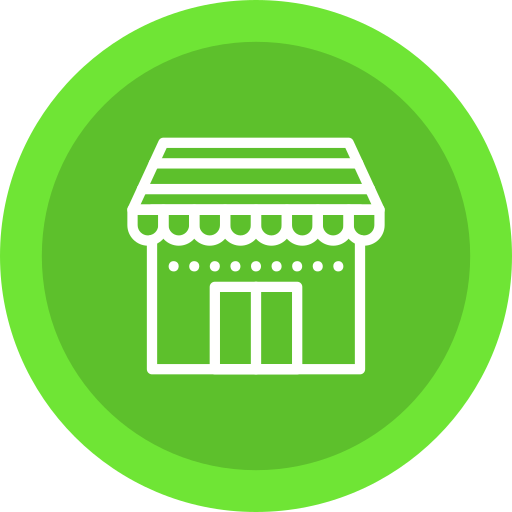
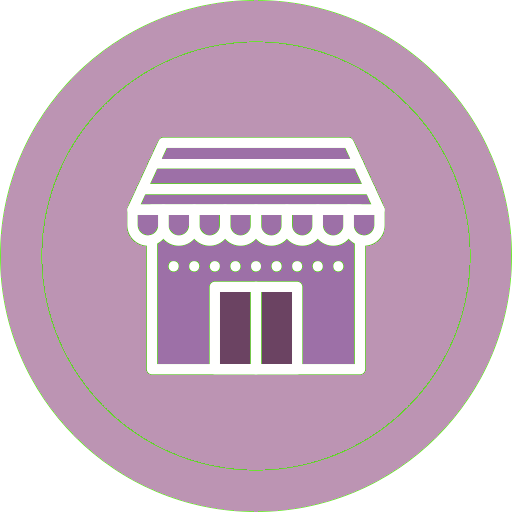
newStyle

diff --git a/app/Screens/TakeImage.js b/app/Screens/TakeImage.js
@@ -91,84 +91,113 @@ function TakeImage({navigation}) {
     );
 }
 const styles = StyleSheet.create({
-    container:{
-        flex: 1,
-        backgroundColor: '#FFFFFF', 
-    },
-    barcodebox:{
-        position:'absolute',
-        top:180,
-        left:45,
-        alignItems: 'center',
-        justifyContent: 'center',
-        height: 300,
-        width:300,
-        overflow: 'hidden',
-        borderRadius:30,
-        backgroundColor:'tomato',
-    },
-    maintext:{
-        position:'absolute',
-        fontSize: 30,
-        margin: 18,
-        top:500,
-        left:66,
-        color:'#4CE47A',
-        fontWeight: 'bold',  
-    },
-    permission:{
-        fontWeight: 'bold',  
-        fontSize:24,
-        marginTop:50,
-        alignSelf: 'flex-start',
-        marginLeft: 40,
-        color:'#4CE47A',
-    },
-    againButton:{
-        position: 'absolute',
-        bottom: 20,
-        left: 122,
-        bottom:160,
-        padding: 10,
-        backgroundColor: '#E91C49',
-        borderRadius: 10,
-    },
-    buttonText: {
-        color: '#FFFFFF',
-        fontSize: 24,
-        fontWeight: 'bold',
-    },
-    productModal: {
-        position: 'absolute',
-        top: 100,
-        left: 20,
-        right: 20,
-        backgroundColor: '#FFFFFF',
-        borderRadius: 10,
-        padding: 20,
-        shadowColor: '#000000',
-        shadowOpacity: 0.25,
-        shadowRadius: 3.84,
-        elevation: 5,
-    },
-    productContainer: {
-        marginBottom: 15,
-    },
-    row: {
-        flexDirection: 'row',
-        alignItems: 'center',
-        marginBottom: 5,
-    },
-    label: {
-        fontSize: 18,
-        fontWeight: 'bold',
-        marginRight: 10,
-        color: '#26B6B5',
-    },
-    value: {
-        fontSize: 16,
-        color: '#666', 
-        width:200,
-    },
-})
+container: {
+    flex: 1,
+    backgroundColor: '#f0f0f0',
+    alignItems: 'center',
+    justifyContent: 'center',
+    padding: 20,
+},
+barcodebox: {
+    alignItems: 'center',
+    justifyContent: 'center',
+    height: 300,
+    width: 300,
+    overflow: 'hidden',
+    borderRadius: 15,
+    backgroundColor: '#ff6347',
+    marginBottom: 20,
+},
+maintext: {
+    fontSize: 20,
+    margin: 20,
+    color: '#9e749a',
+    fontWeight: 'bold',
+    textAlign: 'center',
+},
+permission: {
+    fontWeight: 'bold',
+    fontSize: 24,
+    marginTop: 50,
+    textAlign: 'center',
+    color: '#9e749a',
+},
+againButton: {
+    position: 'absolute',
+    bottom: 40,
+    padding: 15,
+    backgroundColor: '#727272',
+    borderRadius: 10,
+},
+buttonText: {
+    color: '#FFFFFF',
+    fontSize: 20,
+    fontWeight: 'bold',
+},
+productModal: {
+    position: 'absolute',
+    top: 100,
+    left: 20,
+    right: 20,
+    backgroundColor: '#FFFFFF',
+    borderRadius: 15,
+    padding: 20,
+    shadowColor: '#000000',
+    shadowOpacity: 0.25,
+    shadowRadius: 3.84,
+    elevation: 5,
+},
+productContainer: {
+    marginBottom: 15,
+},
+row: {
+    flexDirection: 'row',
+    alignItems: 'center',
+    marginBottom: 10,
+},
+label: {
+    fontSize: 18,
+    fontWeight: 'bold',
+    marginRight: 10,
+    color: '#9e749a',
+},
+value: {
+    fontSize: 16,
+    color: '#666',
+    flexShrink: 1,
+},
+button: {
+    flexDirection: 'row',
+    alignItems: 'center',
+    backgroundColor: '#9e749a',
+    padding: 10,
+    borderRadius: 10,
+    marginTop: 20,
+},
+buttonIcon: {
+    width: 24,
+    height: 24,
+    marginRight: 10,
+},
+productImage: {
+    width: 200,
+    height: 200,
+    marginBottom: 15,
+    borderRadius: 10,
+},
+imageContainer: {
+    alignItems: 'center',
+    position: 'relative',
+},
+favoriteIcon: {
+    position: 'absolute',
+    top: 10,
+    right: 10,
+},
+favoriteIconImage: {
+    width: 30,
+    height: 30,
+},
+});
+
 export default TakeImage;

diff --git a/app/Screens/ProductsPage.js b/app/Screens/ProductsPage.js
@@ -94,17 +94,17 @@ const ProductsPage = ({ navigation }) => {
   }, [db]); // Tableau de dépendances vide pour garantir que useEffect ne s'exécute qu'une fois
 
   const addToCart = async (item) => {
-    const user = getCurrentUser(); // Function getCurrentUser to be implemented
+    const user = getCurrentUser();
     if (user && db) {
       try {
         const userId = user.uid;
         const userCartRef = doc(db, 'Cart', userId);
         const cartSnapshot = await getDoc(userCartRef);
+
         let updatedCartItems = [];
         if (cartSnapshot.exists()) {
           const existingCartItems = cartSnapshot.data().items || [];
-          console.log('Existing cart items:', existingCartItems);
-          const existingItemIndex = existingCartItems.findIndex((cartItem) => cartItem.id === item.id);
+          const existingItemIndex = existingCartItems.findIndex(cartItem => cartItem.id === item.id);
           if (existingItemIndex !== -1) {
             updatedCartItems = existingCartItems.map((cartItem, index) => {
               if (index === existingItemIndex) {
@@ -118,10 +118,10 @@ const ProductsPage = ({ navigation }) => {
         } else {
           updatedCartItems = [{ ...item, quantity: 1 }];
         }
-        console.log('Updated cart items before saving:', updatedCartItems);
+
         await setDoc(userCartRef, { items: updatedCartItems });
-        console.log('Cart saved to Firestore successfully.');
         setCartItems(updatedCartItems);
+        setCartItemCount(updatedCartItems.length);
       } catch (error) {
         console.error('Error adding item to cart:', error);
       }
@@ -136,18 +136,20 @@ const ProductsPage = ({ navigation }) => {
         const userId = user.uid;
         const userFavoriteRef = doc(db, 'Favorites', userId);
         const favoriteSnapshot = await getDoc(userFavoriteRef);
+
         let updatedFavoriteItems = [];
         if (favoriteSnapshot.exists()) {
           const existingFavoriteItems = favoriteSnapshot.data().items || [];
-          const existingItemIndex = existingFavoriteItems.findIndex((favoriteItem) => favoriteItem.id === item.id);
+          const existingItemIndex = existingFavoriteItems.findIndex(favoriteItem => favoriteItem.id === item.id);
           if (existingItemIndex !== -1) {
-            updatedFavoriteItems = existingFavoriteItems.filter((favoriteItem) => favoriteItem.id !== item.id);
+            updatedFavoriteItems = existingFavoriteItems.filter(favoriteItem => favoriteItem.id !== item.id);
           } else {
             updatedFavoriteItems = [...existingFavoriteItems, item];
           }
         } else {
           updatedFavoriteItems = [item];
         }
+
         await setDoc(userFavoriteRef, { items: updatedFavoriteItems });
         setFavoriteItems(updatedFavoriteItems);
       } catch (error) {

diff --git a/app/Screens/login.js b/app/Screens/login.js
@@ -186,7 +186,7 @@ function Login({navigation}) {
                 <Pressable onPress={() => navigation.navigate("Signup")}>
                     <Text style={{
                         fontSize: 16,
-                        color:'#00ff00',
+                        color:'#a279a2',
                         fontWeight:'bold',
                         fontStyle:'italic',
                         marginLeft:6,
@@ -217,7 +217,7 @@ const styles = StyleSheet.create({
         fontSize:27,
         fontStyle:'italic',
         fontWeight:'bold',
-        color:'#00ff00',
+        color:'#a279a2',
     },
     logoname:{
         alignSelf: 'flex-start',
@@ -225,12 +225,12 @@ const styles = StyleSheet.create({
         marginLeft:140,
         fontSize:30,
         fontWeight:'bold',
-        color:'#228B22',
+        color:'#565074',
     },
     signupButton: {
         width: '30%',
         padding: 5,
-        backgroundColor: '#00ff00', 
+        backgroundColor: '#a279a2', 
         borderRadius: 5,
         marginTop: 6, 
         alignItems: 'center',

diff --git a/app/Screens/Welcome.js b/app/Screens/Welcome.js
@@ -23,7 +23,7 @@ function Welcome({navigation}) {
 const styles = StyleSheet.create({
     container:{
         flex: 1,
-        backgroundColor:'#00ff00',
+        backgroundColor:'#9e749a',
     },
     Welcome:{
        width:360,
@@ -42,7 +42,7 @@ const styles = StyleSheet.create({
         fontSize:34,
         fontWeight:'bold',
         marginTop: 20,
-        color:'#228B22',
+        color:'#9e749a',
         fontStyle: 'italic',
         alignSelf: 'flex-start',
         marginLeft: 24,
@@ -59,14 +59,14 @@ const styles = StyleSheet.create({
         width: '35%',
         padding: 10,
         backgroundColor: '#FFFFFF', // Exemple de couleur de fond
-        borderRadius: 5,
+        borderRadius: 10,
         marginTop: 20, // Ajustez selon l'espacement souhaité
         alignItems: 'center',
         alignSelf: 'flex-start',
         marginLeft: 115,
     },
     WelcomeButtonText: {
-        color: '#00ff00', // Couleur du texte
+        color: '#9e749a', // Couleur du texte
         fontWeight: 'bold',
         fontSize:20,
     },

diff --git a/app/Screens/Signup.js b/app/Screens/Signup.js
@@ -93,7 +93,7 @@ const styles = StyleSheet.create({
         fontSize:55,
         fontStyle:'italic',
         fontWeight:'bold',
-        color:'#00ff00',
+        color:'#a279a2',
         marginTop:20,
     },
     logoname:{
@@ -101,7 +101,7 @@ const styles = StyleSheet.create({
         marginLeft:140,
         fontSize:30,
         fontWeight:'bold',
-        color:'#228B22',
+        color:'#565074',
         marginTop:-40,
     },
     input: {
@@ -118,7 +118,7 @@ const styles = StyleSheet.create({
     loginButton: {
         width: '30%',
         padding: 5,
-        backgroundColor: '#00ff00', // Exemple de couleur de fond
+        backgroundColor: '#a279a2', // Exemple de couleur de fond
         borderRadius: 5,
         marginTop: 20, // Ajustez selon l'espacement souhaité
         alignItems: 'center',

diff --git a/config/firebase.js b/config/firebase.js
@@ -9,6 +9,7 @@ import { getFirestore, collection } from "firebase/firestore";
 import { getAuth } from "firebase/auth";
 import { getDatabase } from "firebase/database";
 import { getStorage } from "firebase/storage";
+import { getMessaging, getToken } from 'firebase/messaging';
 const firebaseConfig = {
   apiKey: "AIzaSyDTETlCetLThB_xkGSi-cPzctRqZGG_G2E",
   authDomain: "shopsavvy1-470e8.firebaseapp.com",
@@ -27,6 +28,7 @@ export const database = getDatabase(app);
 export const storage = getStorage(app);
 export const tripsRef = collection(db, 'trips');
 export const expensesRef = collection(db ,'expenses');
+export const messaging = getMessaging(app);
 export const getCurrentUser = () => {
   const user = auth.currentUser;
   return user;

diff --git a/app/Screens/Forgetpassword.js b/app/Screens/Forgetpassword.js
@@ -47,7 +47,7 @@ const styles = StyleSheet.create({
         marginTop:130,
         alignSelf: 'flex-start',
         marginLeft:24,
-        backgroundColor:'#55E139',
+        backgroundColor:'#a279a2',
     },
     input: {
         alignSelf: 'flex-start',
@@ -56,7 +56,7 @@ const styles = StyleSheet.create({
         padding: 10,
         marginTop: 120,
         borderWidth: 1,
-        borderColor: '#55E139', 
+        borderColor: '#a279a2', 
         borderRadius: 10,
     },
     Button:{
@@ -64,7 +64,7 @@ const styles = StyleSheet.create({
         marginTop:30,
         width:240,
         height:40,
-        backgroundColor:'#00ff00',
+        backgroundColor:'#a279a2',
         borderRadius:30,
     },
     ButtonText:{

diff --git a/app/Screens/Add.js b/app/Screens/Add.js
@@ -40,7 +40,7 @@ function Add({navigation}) {
         }else{
             try {
 
-                await addDoc(collection(db, "Products"), {
+                await addDoc(collection(db, "Requests"), {
                     ID: scannedData,
                     Nom: productName,
                     Pays: country,
